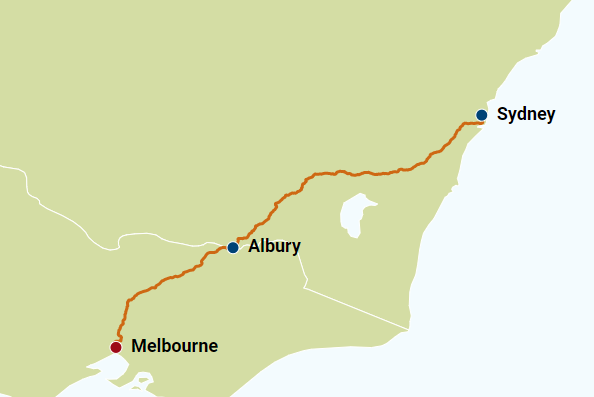
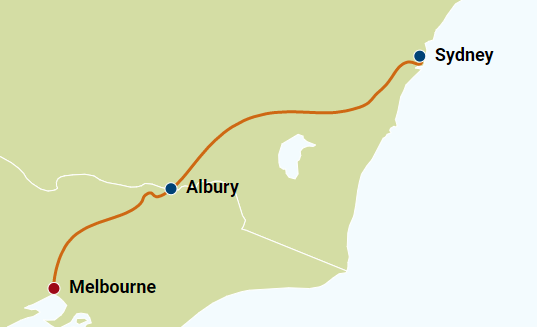
Adds notes about generalising the route outline

diff --git a/topics/itinerary/Working with SVG/README.md b/topics/itinerary/Working with SVG/README.md
@@ -53,13 +53,41 @@ that may be included for certain features.
 Along with your request, you can include the following query parameters to
 change the SVG export.
 
-| Query Parameter   | Description                                                            |
-| ----------------- | ---------------------------------------------------------------------- |
-| bbox              | Alternative bounding box, in 4 numeric values; "west,south,east,north" |
-| pointAsCircle     | Render points as an circle opposed to a path; "true" or "false"        |
-| markerLabelAsText | Render text elements for markers with label values; "true" or "false"  |
-| radius            | Radius for the point; "1", "2"...                                      |
-| width, height     | Viewport Canvas controls                                               |
+| Query Parameter      | Description                                                            |
+| -------------------- | ---------------------------------------------------------------------- |
+| bbox                 | Alternative bounding box, in 4 numeric values; "west,south,east,north" |
+| pointAsCircle        | Render points as an circle opposed to a path; "true" or "false"        |
+| markerLabelAsText    | Render text elements for markers with label values; "true" or "false"  |
+| radius               | Radius for the point; "1", "2"...                                      |
+| width, height        | Viewport Canvas controls                                               |
+| lineStringProcessing | Line simplification and Bezier Spline operations to generalise detail  |
+
+### LineString Processing
+
+To recreate a "generalised" route outline for geometry and smooth out line
+detail, the SVG can be customised using two operations:
+
+- Simplify
+- Bezier Spline
+
+These operations can be used at the same time to both simplify the line then
+smooth out the detail using bezier splines.
+
+Simplify is achieved using Douglas-Peucker algorithm, and can have a customised
+tolerance (default is `0.85`). You can splify a simplify operation via
+`lineStringProcessing=simplify`, or by passing the tolerance via
+`lineStringProcessing=simplify_0.01`.
+
+Bezier Spline is achieved by `lineStringProcessing=bezierSpline` and can also
+be customised via the resolution (default `10000`) controlling the time in
+milliseconds between points and sharpness (default `0.85`) controlling how curvy
+the path should be between splines. You can control the resolution and sharpness
+through appending them to the string;
+`lineStringProcessing=bezierSpline_8000_0.6`.
+
+You can additionally support multiple stages of processing by seperating each
+processing operation by a `,`, such as
+`lineStringProcessing=simplify,bezierSpline`.
 
 ### Administrative Boundaries
 
